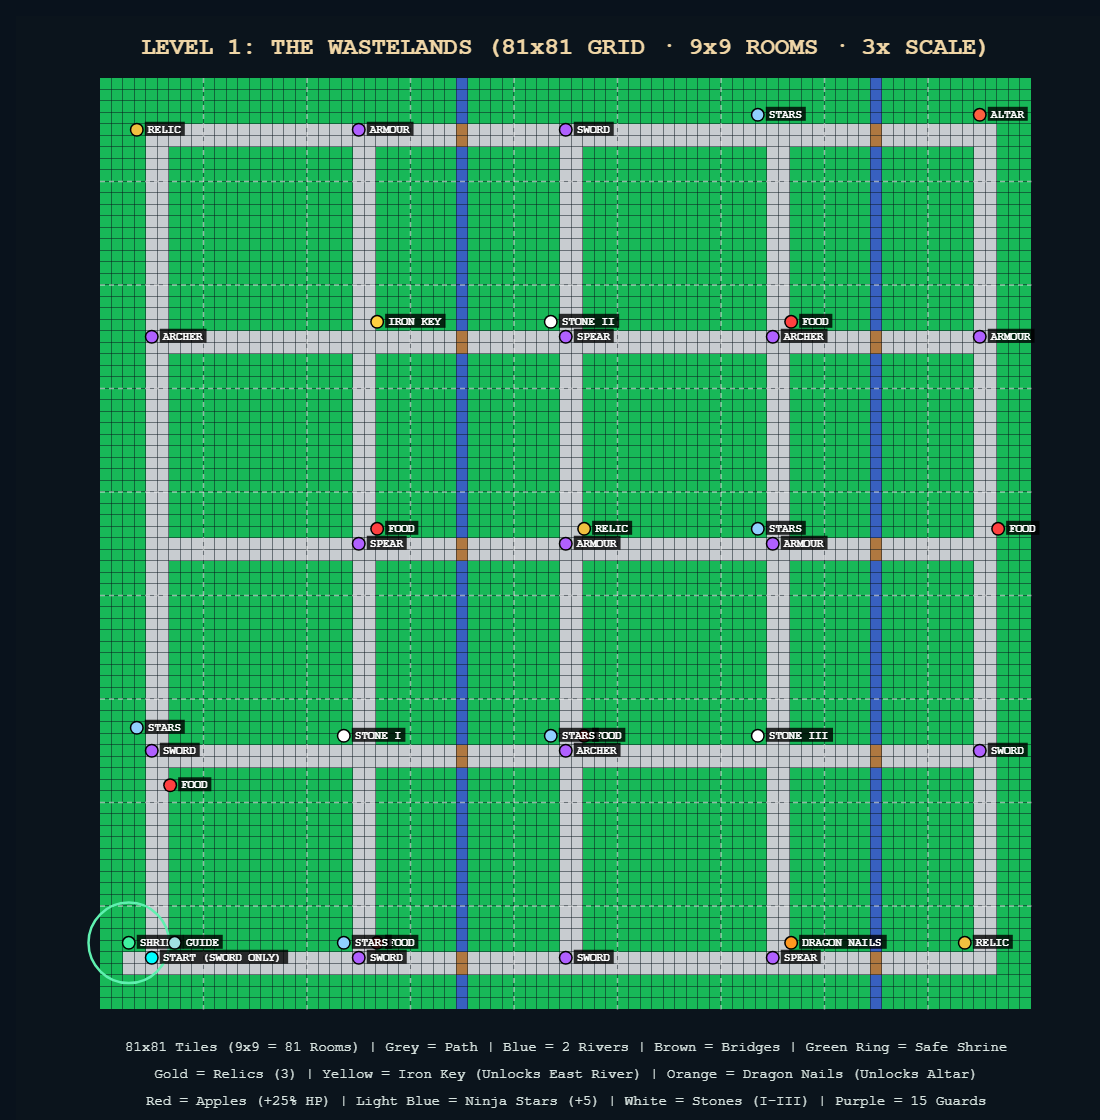
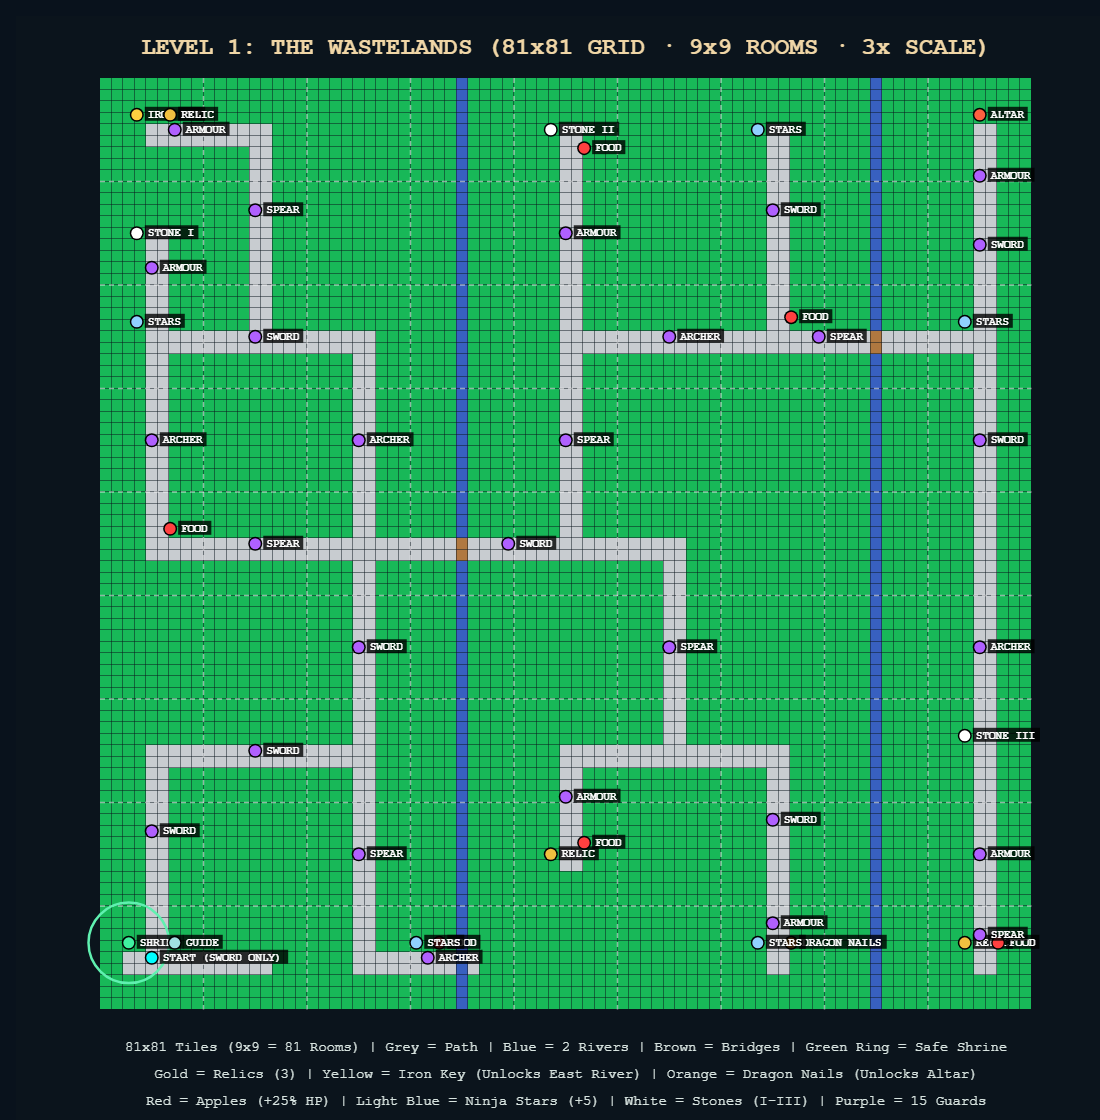
Redesign Level 1 as asymmetric backtracking maze with 28 enemies and gated river crossings

diff --git a/core.js b/core.js
@@ -17,33 +17,83 @@ function createMap(index){
  if(index===5){
   const MSIZE=81,tiles=Array.from({length:MSIZE},()=>Array.from({length:MSIZE},()=>0));
   const props=[];
-  // 9x9 grid of 9x9 screens (81x81 tiles = 3x the width & height); NO paths lead off outer world edges
-  const roads=[4,5,22,23,40,41,58,59,76,77];
-  for(let x=2;x<=77;x++){for(const y of [76,77])tiles[y][x]=4;}
-  for(let x=4;x<=77;x++){for(const y of [4,5,22,23,40,41,58,59])tiles[y][x]=4;}
-  for(let y=4;y<=77;y++){for(const x of roads)tiles[y][x]=4;}
-  // Two rivers at x=31 and x=67 with wooden/stone bridges (tile 3) where paths cross
+  // Helper to carve 2-tile-wide maze corridors between (x1,y1) and (x2,y2)
+  const carve=(x1,y1,x2,y2)=>{
+   const xmin=Math.min(x1,x2),xmax=Math.max(x1,x2),ymin=Math.min(y1,y2),ymax=Math.max(y1,y2);
+   for(let y=ymin;y<=ymax+1;y++)for(let x=xmin;x<=xmax+1;x++)if(y<MSIZE&&x<MSIZE)tiles[y][x]=4;
+  };
+  // 1. Start & West Maze (Sanctuary -> North -> Northwest Keep for IRON KEY, plus South-West dead-end spur)
+  carve(2,76,13,76);   // Starting Shrine & Sora corridor
+  carve(4,58,4,76);    // West road north from start
+  carve(4,58,22,58);   // Turn east to West Junction (22,58)
+  carve(22,58,22,76);  // South spur down
+  carve(22,76,31,76);  // Dead-end spur to Stars0 & Apple0
+  carve(22,22,22,58);  // Main trunk north to (22,22)
+  carve(4,40,22,40);   // West branch at y=40
+  carve(4,13,4,40);    // North up west flank to Stone I dead-end (4,13)
+  carve(4,22,22,22);   // Upper-west cross connector
+  carve(13,4,13,22);   // North ascent to Northwest Keep
+  carve(4,4,13,4);     // Northwest Keep dead-end (holds IRON KEY & Relic 1)
+
+  // 2. West River Crossing (x=31, bridge only at y=40..41) -> Central Valley Maze
+  carve(22,40,49,40);  // Cross West River at (31,40) into Central Hub (40,40) & (49,40)
+  carve(40,4,40,40);   // North central corridor up to Stone II dead-end (40,4)
+  carve(40,22,58,22);  // Northeast branch to (58,22)
+  carve(58,4,58,22);   // North dead-end spur to Stars2 (58,4)
+  carve(49,40,49,58);  // South central descent
+  carve(40,58,58,58);  // Lower central fork (west to 40,58; east to 58,58)
+  carve(40,58,40,67);  // Southwest canyon dead-end (holds Relic 2)
+  carve(58,58,58,76);  // Southeast canyon dead-end (holds DRAGON NAILS)
+
+  // 3. East River Crossing (x=67, bridge only at y=22..23) -> Eastern Citadel Maze
+  carve(58,22,76,22);  // Cross East River at (67,22) into Eastern Citadel (76,22)
+  carve(76,22,76,76);  // South Citadel road down to Stone III & Relic 3 dead-end (76,76)
+  carve(76,4,76,22);   // North Citadel ascent to Boss Altar (76,4)
+
+  // Two rivers at x=31 and x=67 with single bridges where the maze corridors cross
   for(let y=0;y<MSIZE;y++){
-   tiles[y][31]=roads.includes(y)?3:1;
-   tiles[y][67]=roads.includes(y)?3:1;
+   tiles[y][31]=(y===40||y===41)?3:1;
+   tiles[y][67]=(y===22||y===23)?3:1;
   }
+
+  // All 22 objects sit strictly OFF pathway tiles on adjacent grass margins
   const objects=[
    {id:'shrine',type:'shrine',x:2.5,y:75.2},{id:'guide',type:'guide',x:6.5,y:75.2},
-   {id:'relic0',type:'relic',x:3.2,y:4.5},{id:'relic1',type:'relic',x:42.1,y:39.2},{id:'relic2',type:'relic',x:75.2,y:75.2},
-   {id:'node0',type:'node',number:0,x:21.2,y:57.2},{id:'node1',type:'node',number:1,x:39.2,y:21.2},{id:'node2',type:'node',number:2,x:57.2,y:57.2},
-   {id:'food0',type:'food',x:6.1,y:61.5},{id:'food1',type:'food',x:24.1,y:75.2},{id:'food2',type:'food',x:24.1,y:39.2},
-   {id:'food3',type:'food',x:42.1,y:57.2},{id:'food4',type:'food',x:60.1,y:21.2},{id:'food5',type:'food',x:78.1,y:39.2},
-   {id:'stars0',type:'stars',x:3.2,y:56.5},{id:'stars1',type:'stars',x:21.2,y:75.2},{id:'stars2',type:'stars',x:39.2,y:57.2},
-   {id:'stars3',type:'stars',x:57.2,y:39.2},{id:'stars4',type:'stars',x:57.2,y:3.2},
-   {id:'key0',type:'key',x:24.1,y:21.2},{id:'claws0',type:'claws',x:60.1,y:75.2},
+   // Key & Dragon Nails in dedicated maze dead-ends requiring backtracking!
+   {id:'key0',type:'key',x:3.2,y:3.2},       // Northwest Keep dead-end -> backtrack to (31,40) bridge
+   {id:'claws0',type:'claws',x:60.1,y:75.2}, // Southeast Canyon dead-end -> backtrack to (67,22) bridge
+   // 3 Relics in deep maze corners
+   {id:'relic0',type:'relic',x:6.1,y:3.2},
+   {id:'relic1',type:'relic',x:39.2,y:67.5},
+   {id:'relic2',type:'relic',x:75.2,y:75.2},
+   // 3 Puzzle Stones (I, II, III)
+   {id:'node0',type:'node',number:0,x:3.2,y:13.5},
+   {id:'node1',type:'node',number:1,x:39.2,y:4.5},
+   {id:'node2',type:'node',number:2,x:75.2,y:57.2},
+   // 6 Apples (+25% HP)
+   {id:'food0',type:'food',x:29.5,y:75.2},{id:'food1',type:'food',x:6.1,y:39.2},
+   {id:'food2',type:'food',x:42.1,y:6.1},{id:'food3',type:'food',x:42.1,y:66.5},
+   {id:'food4',type:'food',x:60.1,y:20.8},{id:'food5',type:'food',x:78.1,y:75.2},
+   // 5 Ninja Star Caches (+5 each)
+   {id:'stars0',type:'stars',x:27.5,y:75.2},{id:'stars1',type:'stars',x:3.2,y:21.2},
+   {id:'stars2',type:'stars',x:57.2,y:4.5},{id:'stars3',type:'stars',x:57.2,y:75.2},
+   {id:'stars4',type:'stars',x:75.2,y:21.2},
+   // Northern Boss Altar
    {id:'altar',type:'altar',x:76.5,y:3.2}
   ];
+
+  // 28 Enemy Guards patrolling corridors, junctions, and treasure dead-ends
   const spawns=[
-   {x:4.5,y:58.5,kind:'sword'},{x:4.5,y:22.5,kind:'archer'},{x:22.5,y:76.5,kind:'sword'},
-   {x:22.5,y:40.5,kind:'spear'},{x:22.5,y:4.5,kind:'armour'},{x:40.5,y:76.5,kind:'sword'},
-   {x:40.5,y:58.5,kind:'archer'},{x:40.5,y:40.5,kind:'armour'},{x:40.5,y:22.5,kind:'spear'},
-   {x:40.5,y:4.5,kind:'sword'},{x:58.5,y:76.5,kind:'spear'},{x:58.5,y:40.5,kind:'armour'},
-   {x:58.5,y:22.5,kind:'archer'},{x:76.5,y:58.5,kind:'sword'},{x:76.5,y:22.5,kind:'armour'}
+   {x:4.5,y:65.5,kind:'sword'},{x:13.5,y:58.5,kind:'sword'},{x:22.5,y:67.5,kind:'spear'},
+   {x:28.5,y:76.5,kind:'archer'},{x:22.5,y:49.5,kind:'sword'},{x:13.5,y:40.5,kind:'spear'},
+   {x:4.5,y:31.5,kind:'archer'},{x:4.5,y:16.5,kind:'armour'},{x:13.5,y:22.5,kind:'sword'},
+   {x:13.5,y:11.5,kind:'spear'},{x:6.5,y:4.5,kind:'armour'},{x:22.5,y:31.5,kind:'archer'},
+   {x:35.5,y:40.5,kind:'sword'},{x:40.5,y:31.5,kind:'spear'},{x:40.5,y:13.5,kind:'armour'},
+   {x:49.5,y:22.5,kind:'archer'},{x:58.5,y:11.5,kind:'sword'},{x:49.5,y:49.5,kind:'spear'},
+   {x:40.5,y:62.5,kind:'armour'},{x:58.5,y:64.5,kind:'sword'},{x:58.5,y:73.5,kind:'armour'},
+   {x:62.5,y:22.5,kind:'spear'},{x:76.5,y:31.5,kind:'sword'},{x:76.5,y:49.5,kind:'archer'},
+   {x:76.5,y:67.5,kind:'armour'},{x:76.5,y:74.5,kind:'spear'},{x:76.5,y:14.5,kind:'sword'},
+   {x:76.5,y:8.5,kind:'armour'}
   ];
   return{tiles,props,objects,spawns,pathOnly:true,size:MSIZE};
  }
@@ -115,13 +165,16 @@ class Game{
   this.player={...this.player,...s.player,state:'idle',timer:0,invuln:1};this.relics=[...s.relics];this.inventory=[...(s.inventory||[])];this.foods=[...(s.foods||[])];this.starCaches=[...(s.starCaches||[])];this.puzzle=[...s.puzzle];this.solved=!!s.solved;this.bossStarted=!!s.bossStarted;this.bossDefeated=!!s.bossDefeated;
   this.enemies=s.enemies.map(e=>({...e,path:[],pathTimer:0,state:e.hp<=0?'dead':'idle',timer:0,cooldown:1}));this.checkpoint=JSON.parse(JSON.stringify(s));return true;
  }
- static validSave(s){const lim=s?.level===5?80:25;return !!(s&&s.version===1&&Number.isInteger(s.level)&&s.level>=0&&s.level<=5&&['story','normal','hard'].includes(s.difficulty)&&s.player&&Number.isFinite(s.player.x)&&Number.isFinite(s.player.y)&&s.player.x>0&&s.player.x<lim&&s.player.y>0&&s.player.y<lim&&Number.isFinite(s.player.hp)&&Array.isArray(s.enemies)&&s.enemies.length<=25&&s.enemies.every(e=>e&&Number.isFinite(e.x)&&Number.isFinite(e.y)&&Number.isFinite(e.hp))&&Array.isArray(s.relics)&&s.relics.every(x=>Number.isInteger(x)&&x>=0&&x<=2)&&Array.isArray(s.puzzle)&&s.puzzle.length<=3&&s.puzzle.every(x=>Number.isInteger(x)&&x>=0&&x<=2));}
+ static validSave(s){const lim=s?.level===5?80:25;return !!(s&&s.version===1&&Number.isInteger(s.level)&&s.level>=0&&s.level<=5&&['story','normal','hard'].includes(s.difficulty)&&s.player&&Number.isFinite(s.player.x)&&Number.isFinite(s.player.y)&&s.player.x>0&&s.player.x<lim&&s.player.y>0&&s.player.y<lim&&Number.isFinite(s.player.hp)&&Array.isArray(s.enemies)&&s.enemies.length<=40&&s.enemies.every(e=>e&&Number.isFinite(e.x)&&Number.isFinite(e.y)&&Number.isFinite(e.hp))&&Array.isArray(s.relics)&&s.relics.every(x=>Number.isInteger(x)&&x>=0&&x<=2)&&Array.isArray(s.puzzle)&&s.puzzle.length<=3&&s.puzzle.every(x=>Number.isInteger(x)&&x>=0&&x<=2));}
  move(e,dx,dy){
   const shrine=e!==this.player&&this.map.objects.find(o=>o.type==='shrine');
-  const lockedBridge=e===this.player&&this.map.pathOnly&&!this.inventory?.includes('key');
-  if(walkable(this.map,e.x+dx,e.y)&&(!shrine||Math.hypot(e.x+dx-shrine.x,e.y-shrine.y)>=3.5)&&(!lockedBridge||e.x+dx<66.6))e.x+=dx;
-  else if(lockedBridge&&e.x+dx>=66.6&&!this._keyWarned){this._keyWarned=true;this.emit('message',{text:'East River Bridge locked · Find the Iron Key'});}
-  if(walkable(this.map,e.x,e.y+dy)&&(!shrine||Math.hypot(e.x-shrine.x,e.y+dy-shrine.y)>=3.5))e.y+=dy;
+  const needKey=e===this.player&&this.map.pathOnly&&!this.inventory?.includes('key');
+  const needClaws=e===this.player&&this.map.pathOnly&&!this.inventory?.includes('claws');
+  const nx=e.x+dx,ny=e.y+dy;
+  if(needKey&&nx>=30.6&&e.x<30.6){if(!this._keyWarned){this._keyWarned=true;this.emit('message',{text:'West River Bridge locked · Find the Iron Key in the NW Keep!'});}return;}
+  if(needClaws&&nx>=66.6&&e.x<66.6){if(!this._clawWarned){this._clawWarned=true;this.emit('message',{text:'East Gorge Bridge blocked · Find Dragon Nails in the SE Canyon!'});}return;}
+  if(walkable(this.map,nx,e.y)&&(!shrine||Math.hypot(nx-shrine.x,e.y-shrine.y)>=3.5))e.x=nx;
+  if(walkable(this.map,e.x,ny)&&(!shrine||Math.hypot(e.x-shrine.x,ny-shrine.y)>=3.5))e.y=ny;
  }
  nearestObject(){return this.map.objects.filter(o=>!(o.type==='relic'&&this.relics.includes(+o.id.slice(-1)))&&!(o.type==='food'&&this.foods.includes(o.id))&&!(o.type==='stars'&&this.starCaches.includes(o.id))&&!(o.type==='key'&&this.inventory.includes('key'))&&!(o.type==='claws'&&this.inventory.includes('claws'))).map(o=>({o,d:dist(o,this.player)})).filter(v=>v.d<(this.map.pathOnly?2.1:1.55)).sort((a,b)=>a.d-b.d)[0]?.o;}
  interact(){
